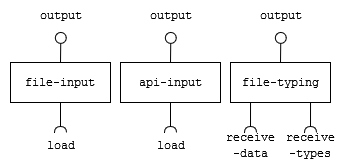
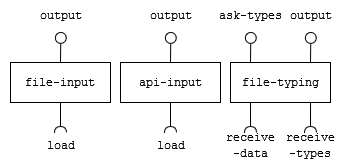
Adds workflow and front to component narrative

diff --git a/modules/data/README.md b/modules/data/README.md
@@ -36,6 +36,13 @@
 	]
 }
 ~~~
+**`FileTypeRequest`**
+~~~json
+{
+	"data": TreatedDataContent,
+	"return_notice": string
+}
+~~~
 **`FileTypeInfo`**
 ~~~json
 {
@@ -114,49 +121,47 @@ notice | action | message type
 
 notice    | source | message type
 ----------| -------| ------------
+`ask-types` | `Once the component receives a JSON file, it publishes a request for a user interface to ask for typing info` | `FileTypeRequest`
 `output` | `As the component finishes transforming the data based on user input, publishes the result on the data bus` | `TreatedFileContent` or `ErrorDuringDataProcessing`
 
 # Components Narratives
+
+![Components Narratives](images/DataWorkflow.png)
 
 ## Setup
 > `file-input` component
 ~~~html
 <file-input
-	publish="output:receiveData/[id]">
+	subscribe="input-file/[id]:load"
+	publish="output:receive-data/[id]">
 </file-input>
 ~~~
 > `api-input` component
 ~~~html
 <api-input 
-    publish="output:receiveData/[id]">
+	subscribe="input-api/[id]:load"
+    publish="output:receive-data/[id]">
 </api-input>
 ~~~
 > `file-typing` component
 ~~~html
 <file-typing
-	treatedFileContent="{
-			'file_id': string,
-			'columns': [{name, type}, ...],
-			'data': [
-				[column0, column1, ...],
-				... // Other rows
-			]
-	}",
-	publish="output:receiveData/[id]">
+	subscribe="receive-types/[id]:receive-types;receive-data/[id]:receive-data"
+	publish="output:receive-data/[id];ask-types:ask-types/[id]">
 </file-typing>
 ~~~
 
 ## Narrative
 -   The `file-input` component watches the data bus for incoming file input that needs to be processed and transformed into JSON format.
--   When a new file message arrives on the data bus being watched, the component starts the process.
+-   When workflow sends a new file message on the data bus being watched, the component starts the process.
 -   It identifies the file format, which can be either CSV or XLSX, and calls the appropriate JS function to transform the data.
 -   It loops through all the rows of the file, transforming each one into a JSON format.
 -   The component appends these JSON objects to the output message body.
--   If any error occurs during the process, the component stops execution and publishes an error message on the data bus.
+-   If any error occurs during the process, the component stops execution and publishes an error message on the data bus, which can be displayed by front.
 -   If all rows have been processed successfully with no errors, the transformed data in JSON format is published on the data bus.
 ---
 -   The `api-input` component listens to the data bus to wait for the spreadsheet URL inside `inputAPI` attribute to be processed in string format.
--   When a new url message arrives on the data bus being watched, the component starts the process.
+-   When workflow sends a new url message on the data bus being watched, the component starts the process.
 -   Calls the function in javascript that will make the connection with the api to obtain the data, transforming into a JSON format.
 -   The component appends these JSON objects to the output message body.
 -   If any error occurs during the process, the component stops execution and publishes an error message on the data bus.
@@ -164,7 +169,7 @@ notice    | source | message type
 ---
 -	The `file-typing` component watches the data bus for incoming JSON files that must be typed.
 -	It initiates the process on the result of the process of a `file-input` or `api-input` component.
--	It triggers the opening of an interface that asks the user to indicate the types of each column of the data in question.
+-	It sends a message triggers the opening of an interface that asks the user to indicate the types of each column of the data in question.
 -	Based on the user's response, it types the data received.
 -   If any error occurs during the process, the component stops execution and publishes an error message on the data bus.
 -   If all rows have been processed successfully with no errors, the typed data in JSON format is published on the data bus.
